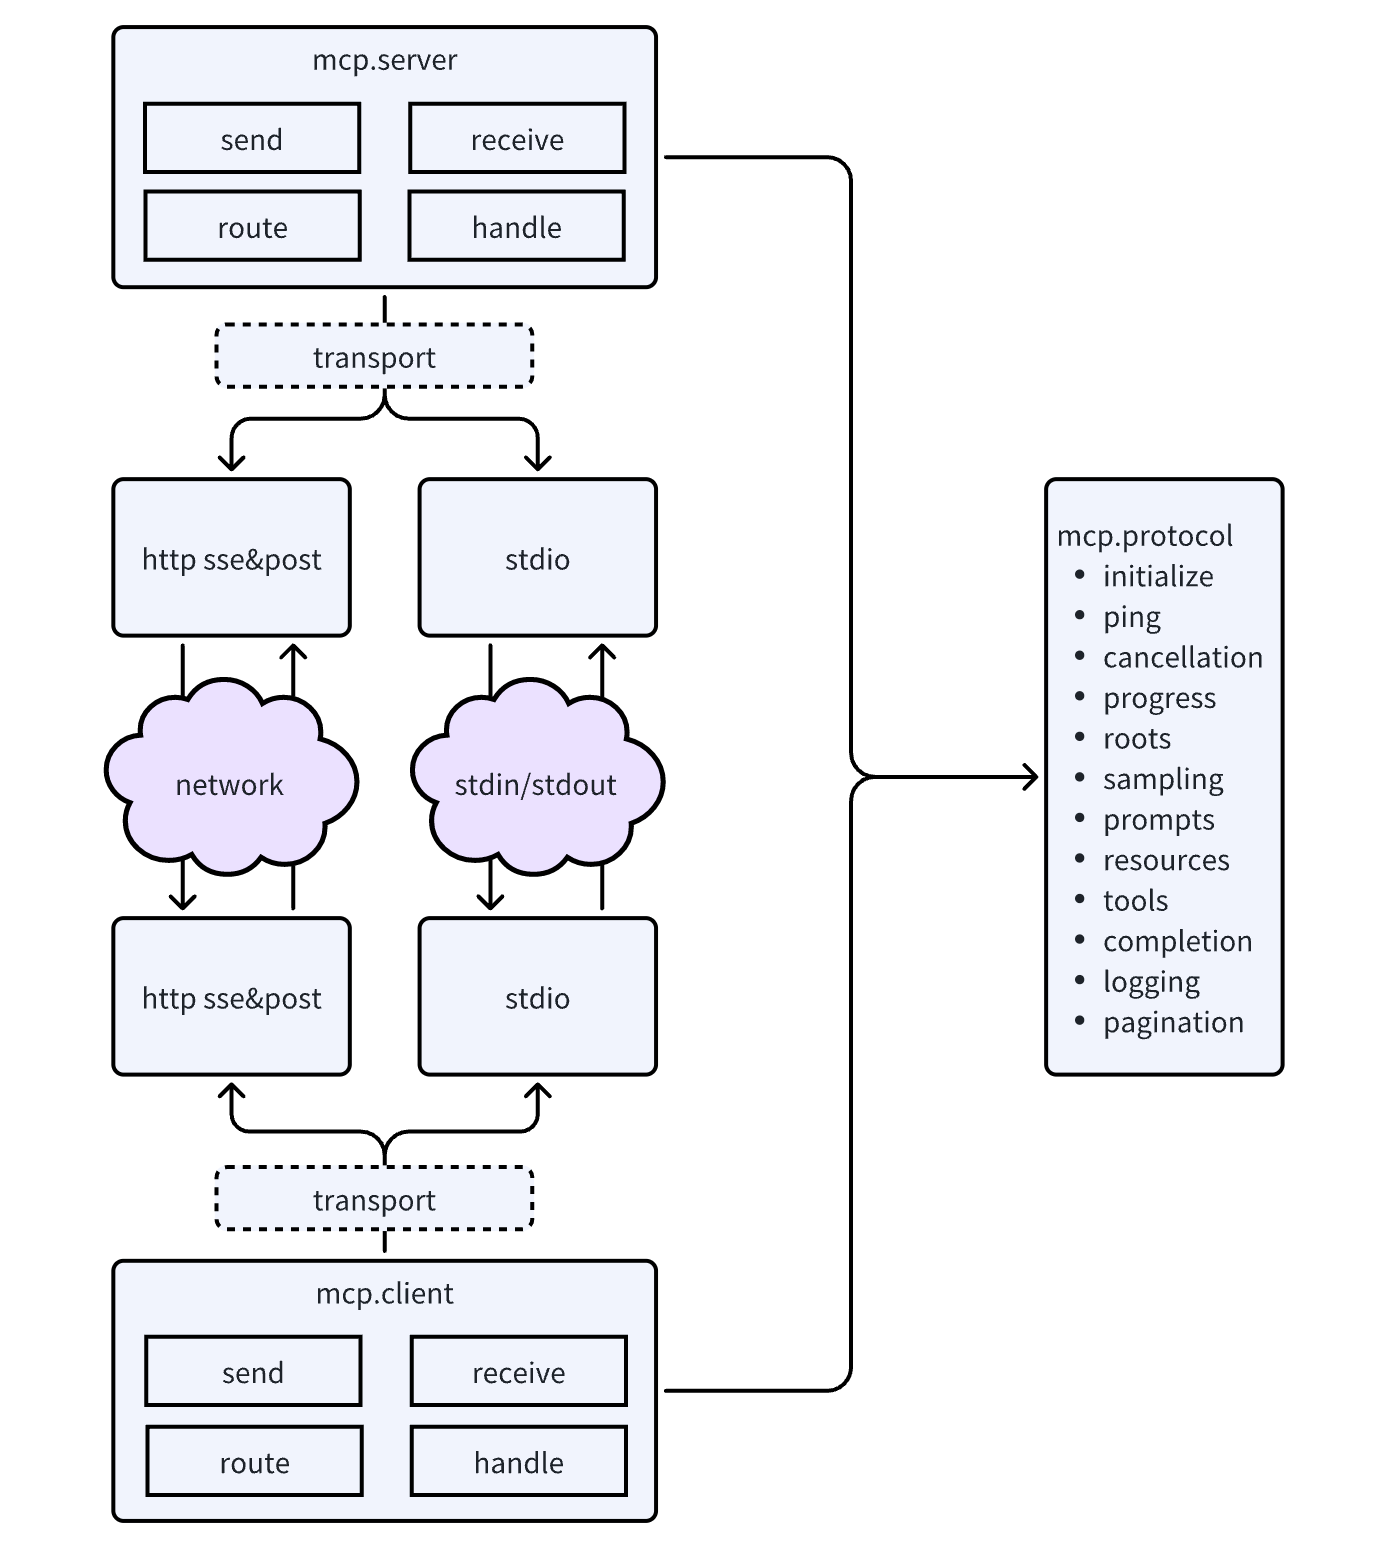
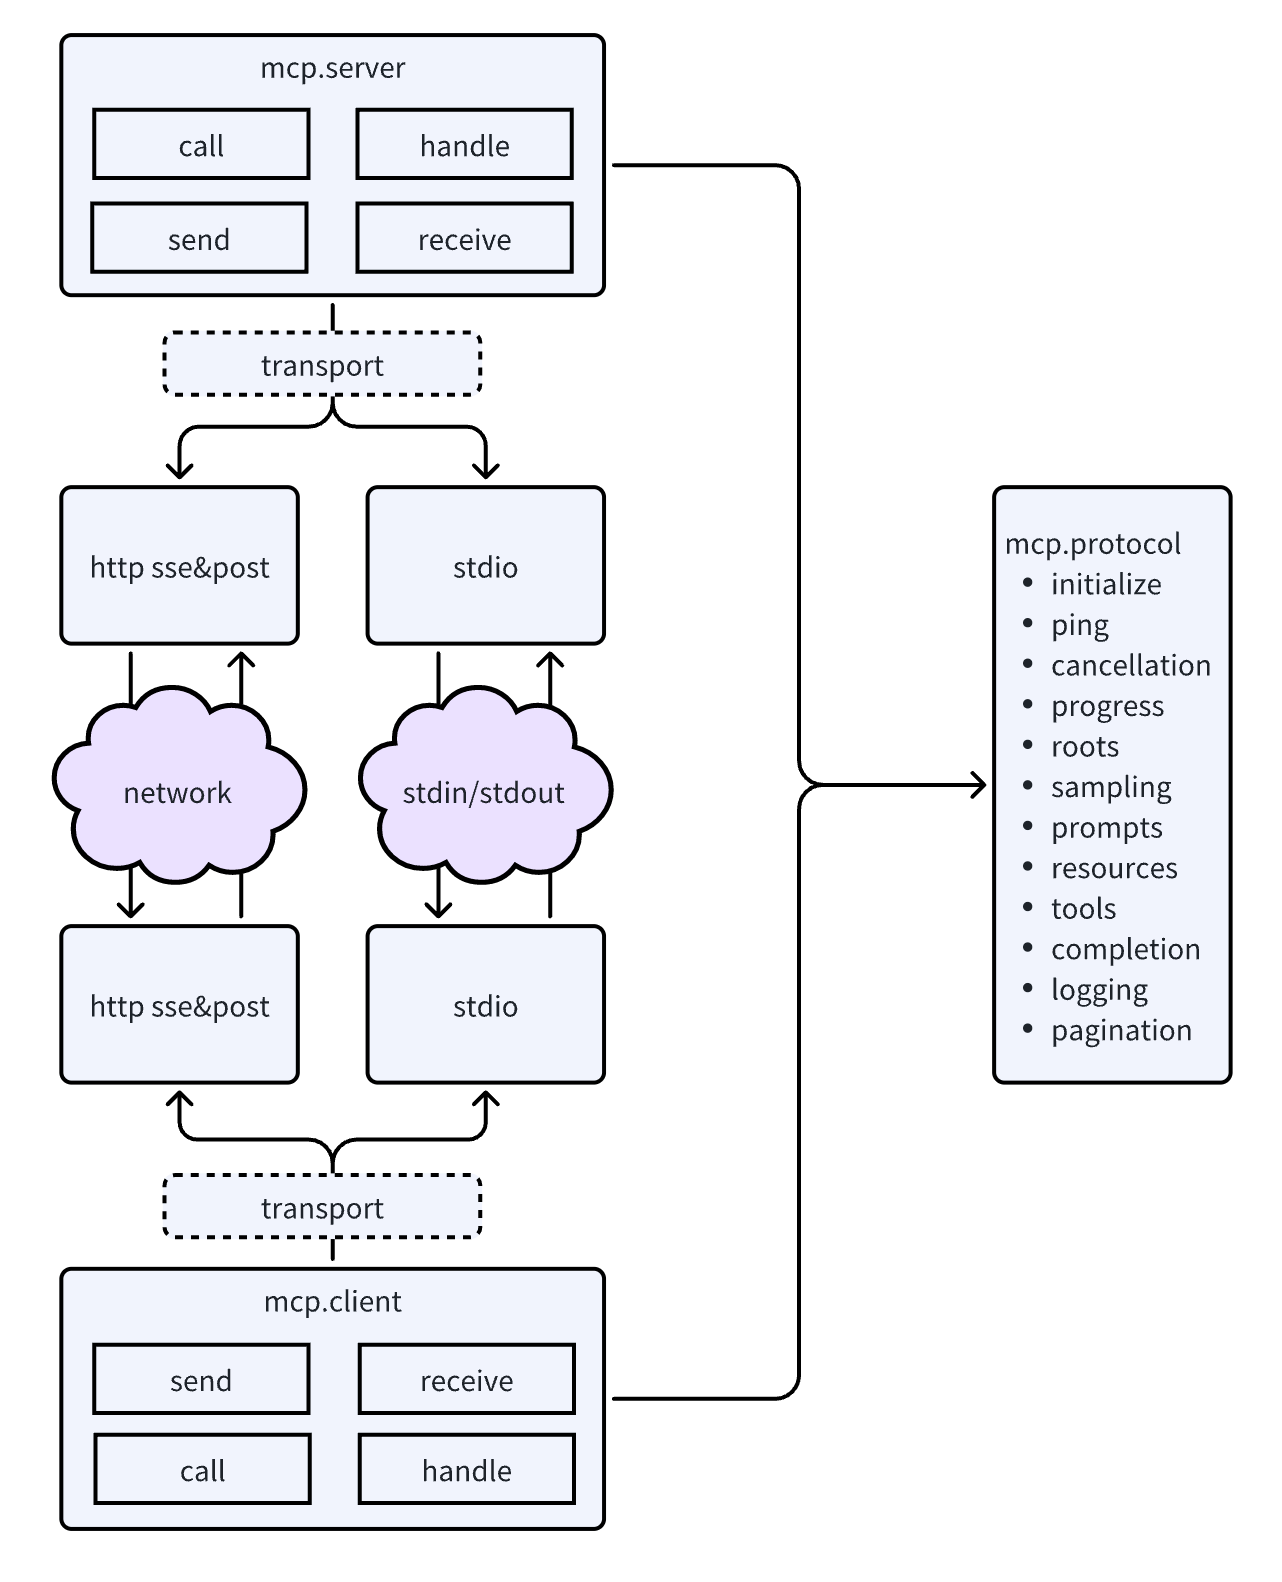
feat: optimization desgin.md

diff --git a/server/call.go b/server/call.go
@@ -9,21 +9,21 @@ import (
 // 请求
 
 // 1. 请求构造
-// 2. 发送请求 server.callServer(ctx)
+// 2. 发送请求 server.callClient(ctx)
 // 3. 响应解析
 
 func (server *Server) Ping(ctx context.Context) error {
-	// server.call(ctx)
+	// server.callClient(ctx)
 	return nil
 }
 
 func (server *Server) ListRoots(ctx context.Context) error {
-	// server.call(ctx)
+	// server.callClient(ctx)
 	return nil
 }
 
 func (server *Server) CreateMessagesSample(ctx context.Context) error {
-	// server.call(ctx)
+	// server.callClient(ctx)
 	return nil
 }
 
@@ -60,7 +60,7 @@ func (server *Server) SendNotification4LoggingMessage(ctx context.Context) error
 }
 
 // 负责request和response的拼接
-func (server *Server) callServer(ctx context.Context, method protocol.Method, params interface{}) ([]byte, error) {
+func (server *Server) callClient(ctx context.Context, method protocol.Method, params interface{}) ([]byte, error) {
 	requestID := server.requestID.Add(1)
 	// 发送请求
 	if err := server.sendMsgWithRequest(ctx, requestID, method, params); err != nil {

diff --git a/server/server.go b/server/server.go
@@ -32,11 +32,14 @@ func NewServer(t transport.Transport, opts ...Option) (*Server, error) {
 		opt(server)
 	}
 
-	if err := server.transport.Start(); err != nil {
-		return nil, fmt.Errorf("init mcp server transpor start fail: %w", err)
-	}
-
 	return server, nil
+}
+
+func (server *Server) Start() error {
+	if err := server.transport.Start(); err != nil {
+		return fmt.Errorf("init mcp server transpor start fail: %w", err)
+	}
+	return nil
 }
 
 type Option func(*Server)
@@ -53,7 +56,7 @@ func WithLogger(logger pkg.Logger) Option {
 	}
 }
 
-func (server *Server) Close() error {
+func (server *Server) Shutdown() error {
 	// TODO 还有一些其他处理操作也可以放在这里
 	// server.transport.Close()
 	return nil

diff --git a/client/call.go b/client/call.go
@@ -13,13 +13,13 @@ import (
 // 3. 响应解析
 
 func (client *Client) initialization(ctx context.Context) error {
-	// client.call(ctx)
+	// client.callServer(ctx)
 	// client.SendNotification4Initialized(ctx)
 	return nil
 }
 
 func (client *Client) Ping(ctx context.Context) error {
-	// client.call(ctx)
+	// client.callServer(ctx)
 	return nil
 }
 

diff --git a/server/receive.go b/server/receive.go
@@ -106,4 +106,5 @@ func (server *Server) receiveNotify(ctx context.Context, notify *protocol.JSONRP
 
 func (server *Server) receiveResponse(ctx context.Context, response *protocol.JSONRPCResponse) error {
 	// 通过 server.reqID2respChan 将 response 传回发送 request 的协程
+	return nil
 }

diff --git a/client/receive.go b/client/receive.go
@@ -86,4 +86,5 @@ func (client *Client) receiveNotify(ctx context.Context, notify *protocol.JSONRP
 
 func (client *Client) receiveResponse(ctx context.Context, response *protocol.JSONRPCResponse) error {
 	// 通过 client.reqID2respChan 将 response 传回发送 request 的协程
+	return nil
 }
